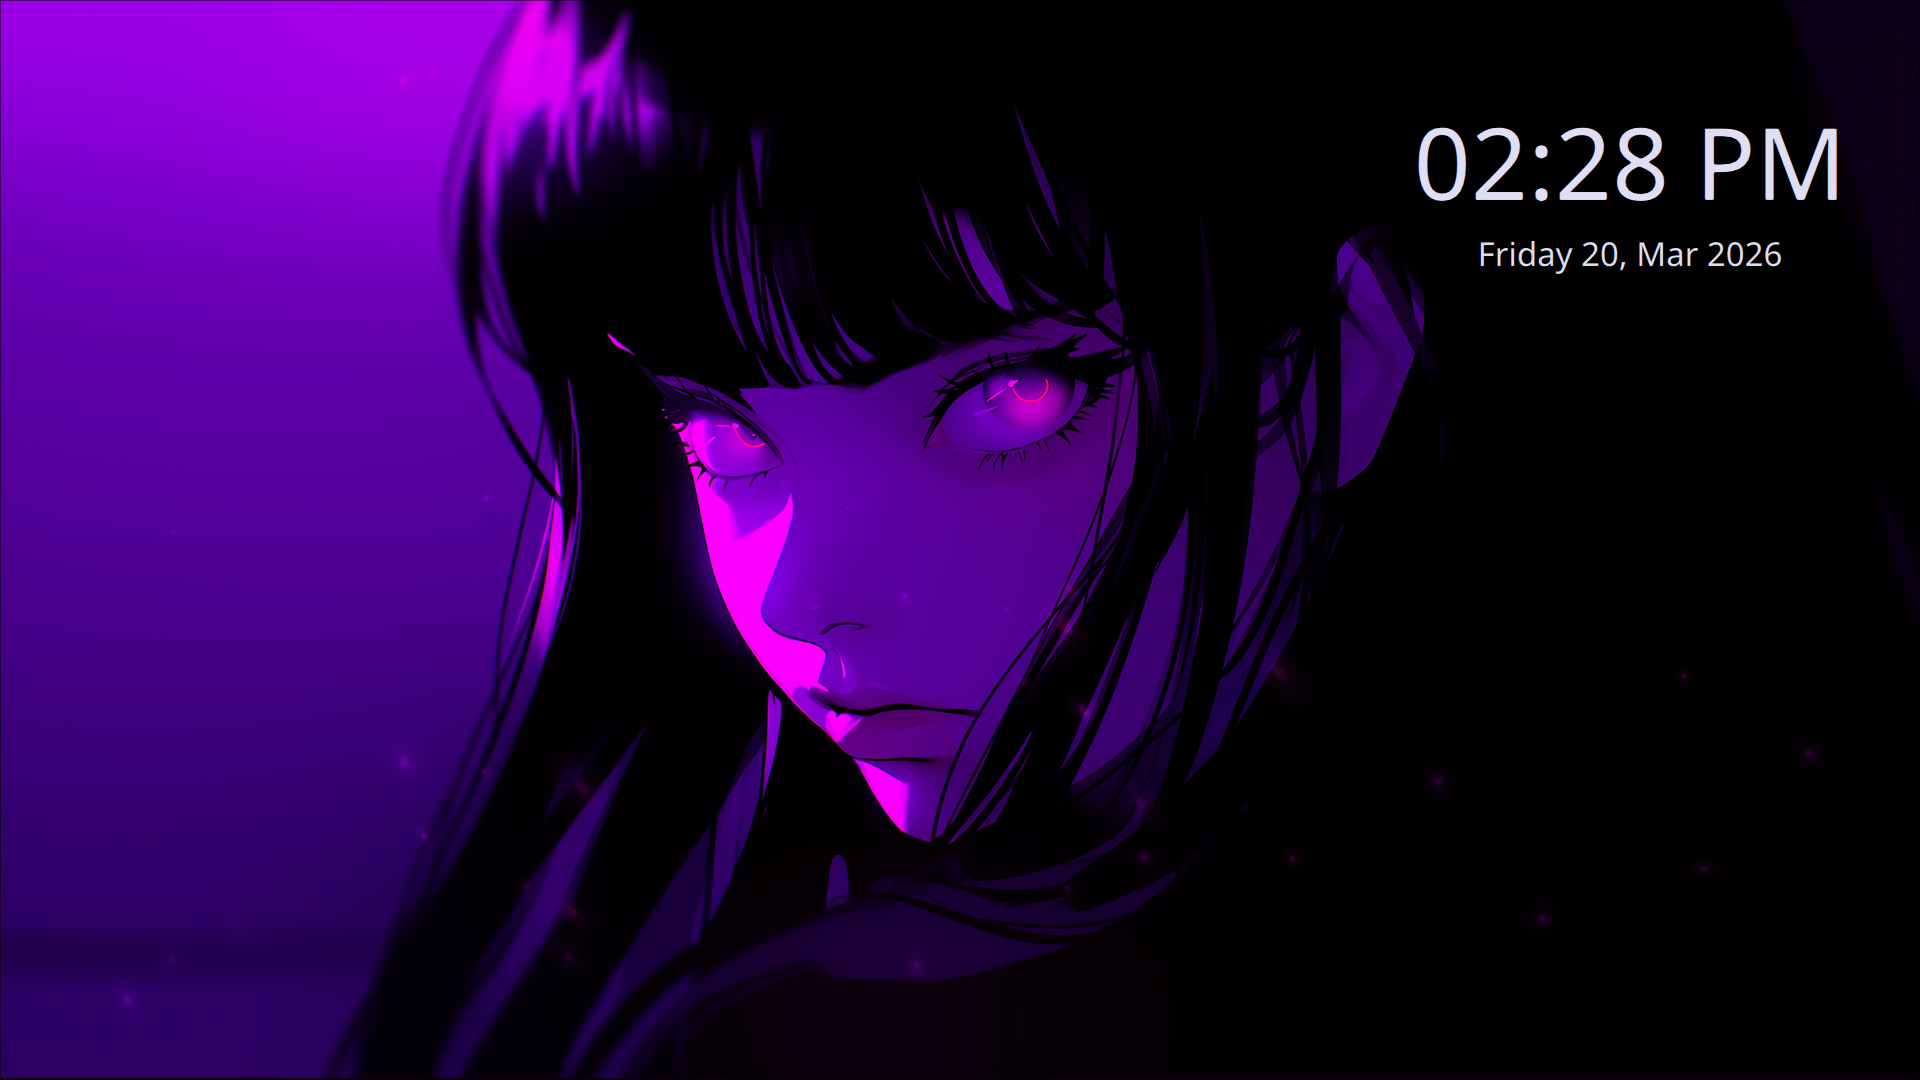
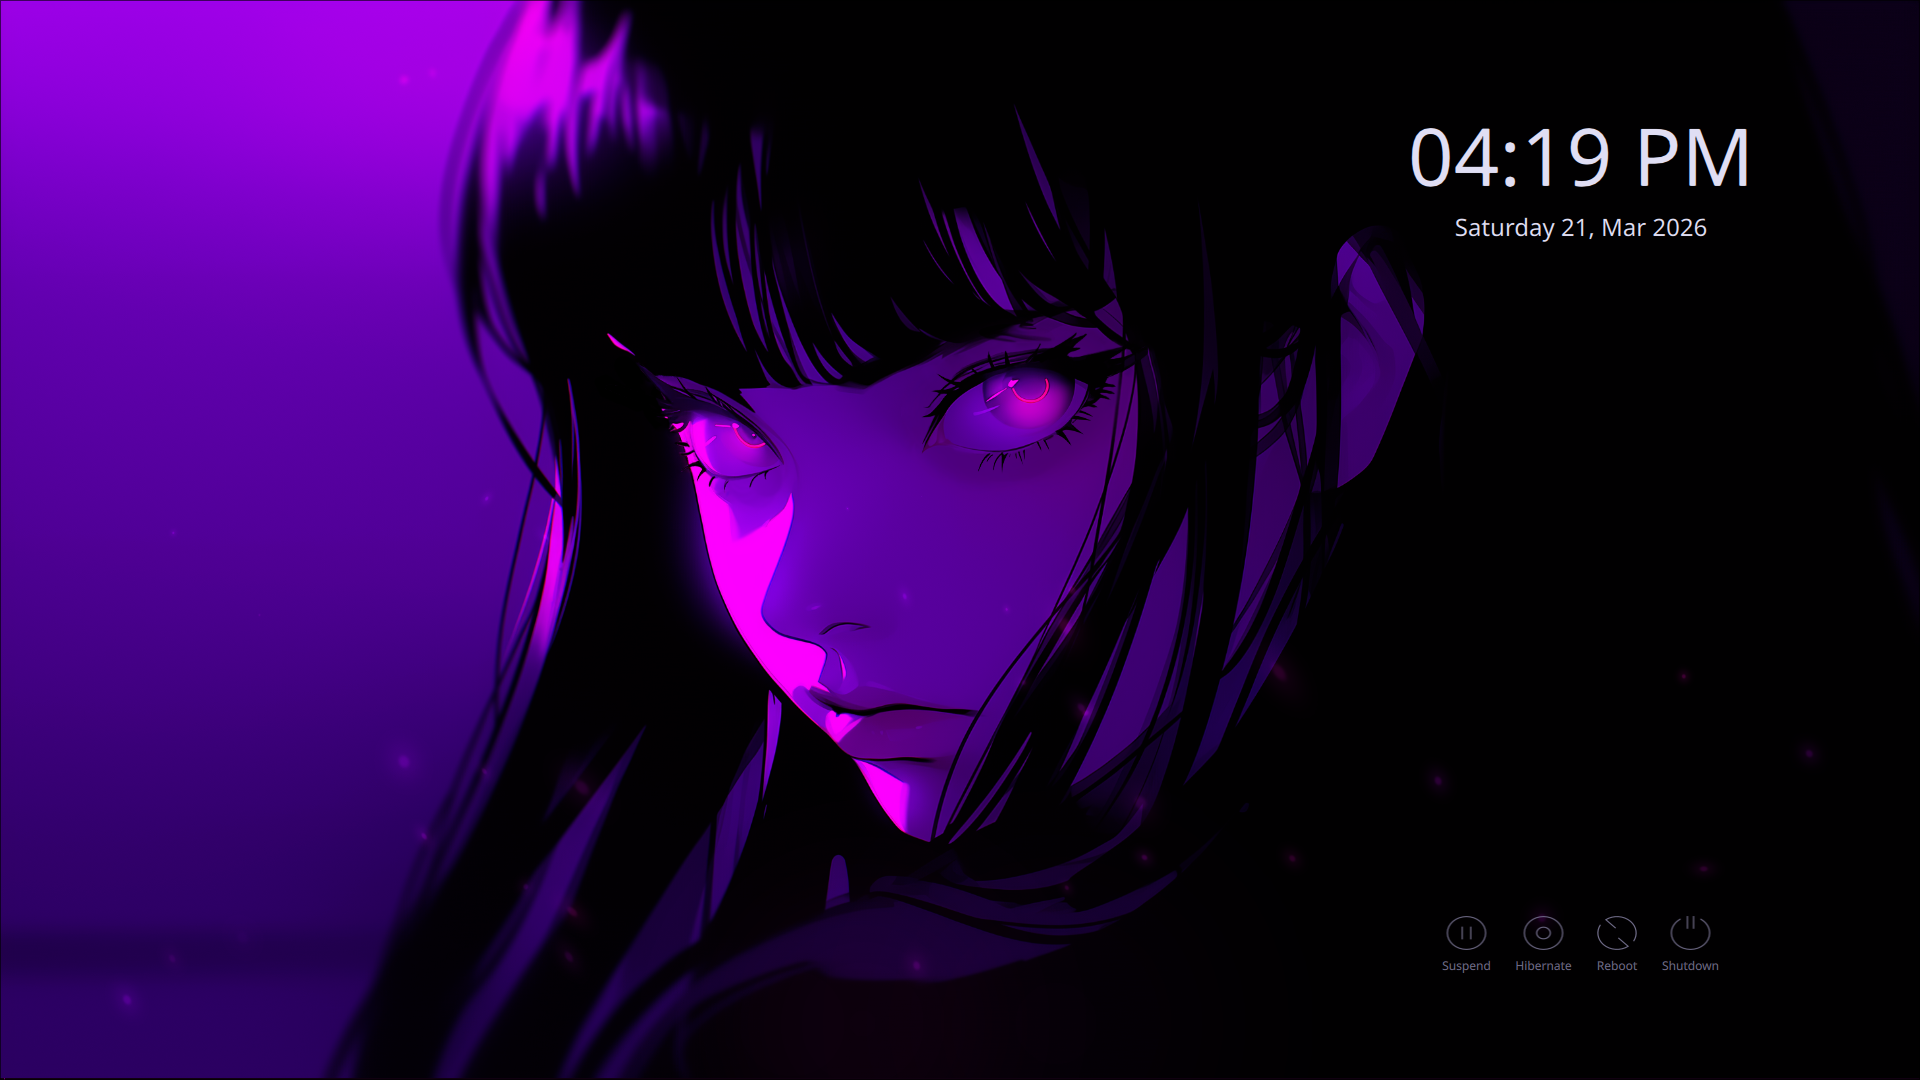
Added Sys buttons tray

Changed region(s): [[0.7188, 0.1222, 0.9688, 0.2444], [0.75, 0.8556, 0.8125, 0.9167], [0.875, 0.8861, 0.9062, 0.9167]]

diff --git a/Components/SystemButtonTray.qml b/Components/SystemButtonTray.qml
@@ -1,0 +1,96 @@
+import QtQuick 2.11
+import QtQuick.Layouts 1.11
+import QtQuick.Controls 2.4
+
+RowLayout {
+    spacing: config.FontSize  
+
+    property var suspend: ["Suspend", sddm.canSuspend]
+    property var hibernate: ["Hibernate", sddm.canHibernate]
+    property var reboot: ["Reboot", sddm.canReboot]
+    property var shutdown: ["Shutdown", sddm.canPowerOff]
+
+    property Control exposedSession
+
+    Repeater {
+        id: systemButtons
+
+        model: [suspend, hibernate, reboot, shutdown]
+
+        RoundButton {
+            text: modelData[0]
+            font.pointSize: config.FontSize * 0.75
+
+            Layout.alignment: Qt.AlignHCenter
+            icon.source: modelData ? Qt.resolvedUrl("../Assets/" + modelData[0] + ".svgz") : ""
+            icon.height: config.FontSize * 3
+            icon.width: config.FontSize * 3.5
+
+            display: AbstractButton.TextUnderIcon
+            visible: true
+            hoverEnabled: true
+
+            palette.buttonText: config.Muted
+            background: Rectangle {
+                height: 2
+                color: "transparent"
+                width: parent.width
+                border.width: parent.activeFocus ? 1 : 0
+                border.color: "transparent"
+                anchors.top: parent.bottom
+            }
+
+            Keys.onReturnPressed: clicked()
+            onClicked: {
+                parent.forceActiveFocus();
+                index == 0 ? sddm.suspend() 
+                        : index == 1 ? sddm.hibernate() 
+                        : index == 2 ? sddm.reboot() 
+                        : sddm.powerOff();
+            }
+
+            KeyNavigation.up: exposedSession
+            KeyNavigation.left: parent.children[index - 1]
+
+            states: [
+                State {
+                    name: "Pressed"
+                    when: down
+                    PropertyChanges {
+                        target: parent.children[index]
+                        palette.buttonText: config.Rose
+                    }
+                },
+
+                // ToDo: why wont it work? Try to understand it...
+                // State {
+                //     name: "Hovered"
+                //     when: hovered
+                //     PropertyChanges {
+                //         target: parent.children[index]
+                //         palette.buttonText: "red"
+                //     }
+                // },
+
+                State {
+                    name: "Focused"
+                    when: activeFocus
+                    PropertyChanges {
+                        target: parent.children[index]
+                        palette.buttonText: config.HighlightMed
+                    }
+                }
+
+            ]
+
+            transitions: [
+                Transition {
+                    PropertyAnimation {
+                        properties: "palette.buttonText"
+                        duration: 150
+                    }
+                }
+            ]
+        }
+    }
+}

diff --git a/Components/Clock.qml b/Components/Clock.qml
@@ -1,49 +1,45 @@
 import QtQuick 2.15
+import QtQuick.Layouts 1.11
 import QtQuick.Controls 2.4
 
 Column {
-    id: clock 
+    id: clock
     width: parent.width / 2
-
-    anchors {
-        verticalCenter: parent.verticalCenter
-        horizontalCenter: parent.horizontalCenter
-    }
 
     Label {
         id: timeLabel
         anchors.horizontalCenter: parent.horizontalCenter
-        font.pointSize: config.FontSize * 1.5
+        font.pointSize: config.FontSize * 5
         color: config.Text
         renderType: Text.QtRendering
         function updateTime() {
-            text = new Date().toLocaleTimeString(Qt.locale(config.Locale), config.HourFormat)
+            text = new Date().toLocaleTimeString(Qt.locale(config.Locale), config.HourFormat);
         }
     }
 
     Label {
         id: dateLabel
         anchors.horizontalCenter: parent.horizontalCenter
-        font.pointSize: config.FontSize / 2
+        font.pointSize: config.FontSize * 1.5
         color: config.Text
         renderType: Text.QtRendering
         function updateTime() {
-            text = new Date().toLocaleDateString(Qt.locale(config.Locale), config.DateFormat)
+            text = new Date().toLocaleDateString(Qt.locale(config.Locale), config.DateFormat);
         }
     }
 
     Timer {
-        interval: 1000 
-        repeat: true 
-        running: true 
+        interval: 1000
+        repeat: true
+        running: true
         onTriggered: {
-            timeLabel.updateTime()
-            dateLabel.updateTime()
+            timeLabel.updateTime();
+            dateLabel.updateTime();
         }
     }
 
     Component.onCompleted: {
-        dateLabel.updateTime()
-        timeLabel.updateTime()
-    } 
-} 
+        dateLabel.updateTime();
+        timeLabel.updateTime();
+    }
+}

diff --git a/Main.qml b/Main.qml
@@ -20,31 +20,33 @@ Rectangle {
 
         mirror: !(config.FormPosition == "right")
 
-        Rectangle {
-            id: clockBG
-
+        ColumnLayout {
             width: parent.width * 0.25
-            height: parent.height / 4
+            height: parent.height
 
             anchors {
-                top: parent.top
                 left: config.FormPosition == "left" ? undefined : parent.left
                 right: config.FormPosition == "right" ? undefined : parent.right
-                margins: 50
+                top: parent.top 
+                bottom: parent.bottom 
+
+                margins: 100
             }
 
-            opacity: 1
-            color: "transparent"
+            Clock {
+                Layout.alignment: Qt.AlignHCenter | Qt.AlignTop
+            }
 
-            Clock {}
-
+            SystemButtonTray {
+                Layout.alignment: Qt.AlignHCenter | Qt.AlignBottom
+            }
         }
     }
 
-    MouseArea {
-        id: mouseTracker
-        anchors.fill: parent
-        hoverEnabled: true
-        acceptedButtons: Qt.NoButton
-    }
+    // MouseArea {
+    //     id: mouseTracker
+    //     anchors.fill: parent
+    //     hoverEnabled: true
+    //     acceptedButtons: Qt.NoButton
+    // }
 }
